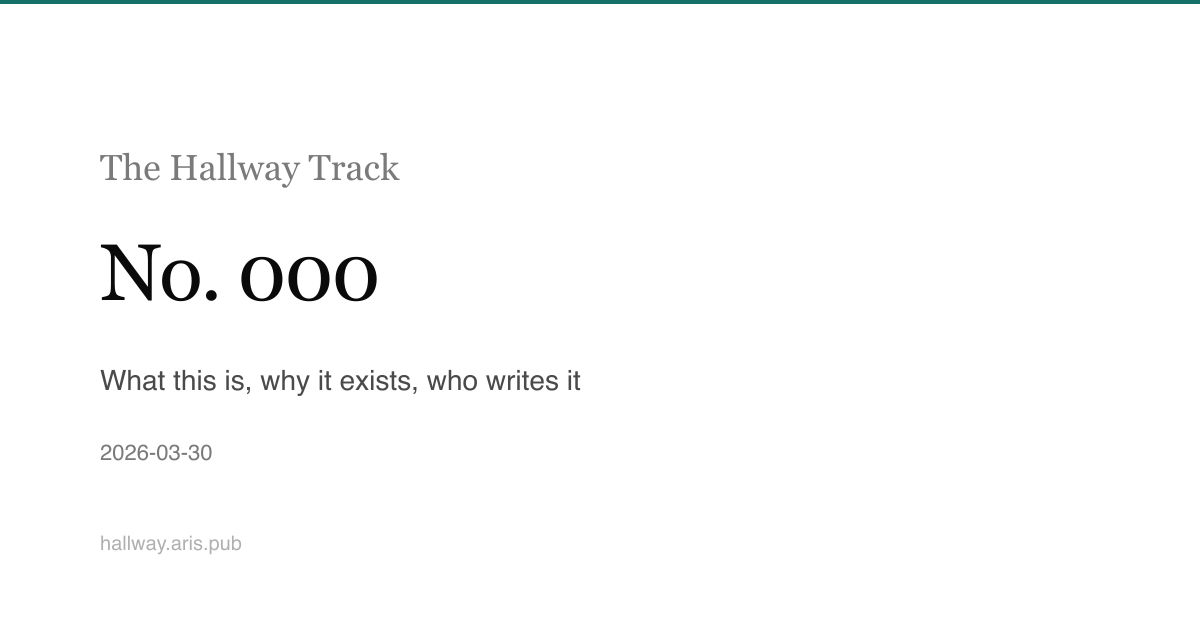
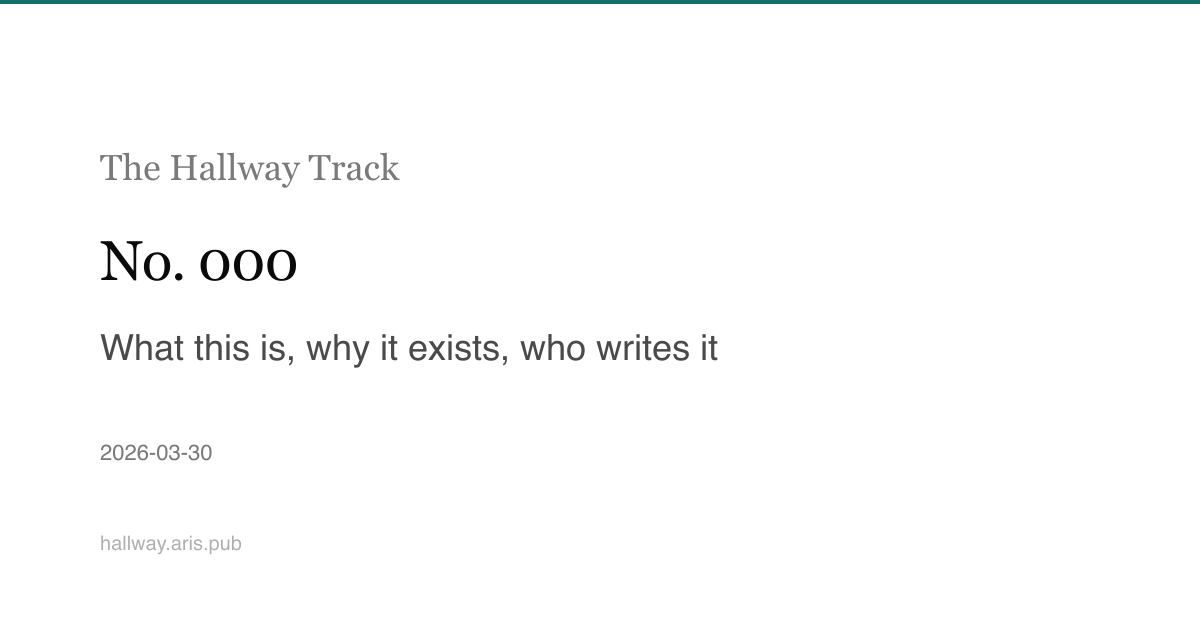
Resize og:image: smaller edition number, bigger title

Changed region(s): [[0.0617, 0.5127, 0.6167, 0.6333], [0.0617, 0.3619, 0.3392, 0.4825]]

diff --git a/scripts/gen-og-images.js b/scripts/gen-og-images.js
@@ -7,13 +7,13 @@ const IMAGES_DIR = path.join(__dirname, "..", "src", "images", "og");
 
 function makeSvg(number, title, date) {
   const titleLine = title
-    ? `<text x="100" y="390" font-family="sans-serif" font-size="28" fill="#4a4a4a">${title}</text>`
+    ? `<text x="100" y="360" font-family="sans-serif" font-size="36" fill="#4a4a4a">${title}</text>`
     : "";
   return `<svg xmlns="http://www.w3.org/2000/svg" width="1200" height="630" viewBox="0 0 1200 630">
   <rect width="1200" height="630" fill="#ffffff"/>
   <rect x="0" y="0" width="1200" height="4" fill="#157067"/>
   <text x="100" y="180" font-family="Georgia, Garamond, serif" font-size="36" fill="#7a7a7a">The Hallway Track</text>
-  <text x="100" y="300" font-family="Georgia, Garamond, serif" font-size="80" font-weight="400" fill="#0a0a0a" letter-spacing="-2">No. ${number}</text>
+  <text x="100" y="280" font-family="Georgia, Garamond, serif" font-size="56" font-weight="400" fill="#0a0a0a" letter-spacing="-1">No. ${number}</text>
   ${titleLine}
   <text x="100" y="460" font-family="sans-serif" font-size="22" fill="#7a7a7a">${date}</text>
   <text x="100" y="550" font-family="sans-serif" font-size="20" fill="#b0b0b0">hallway.aris.pub</text>
